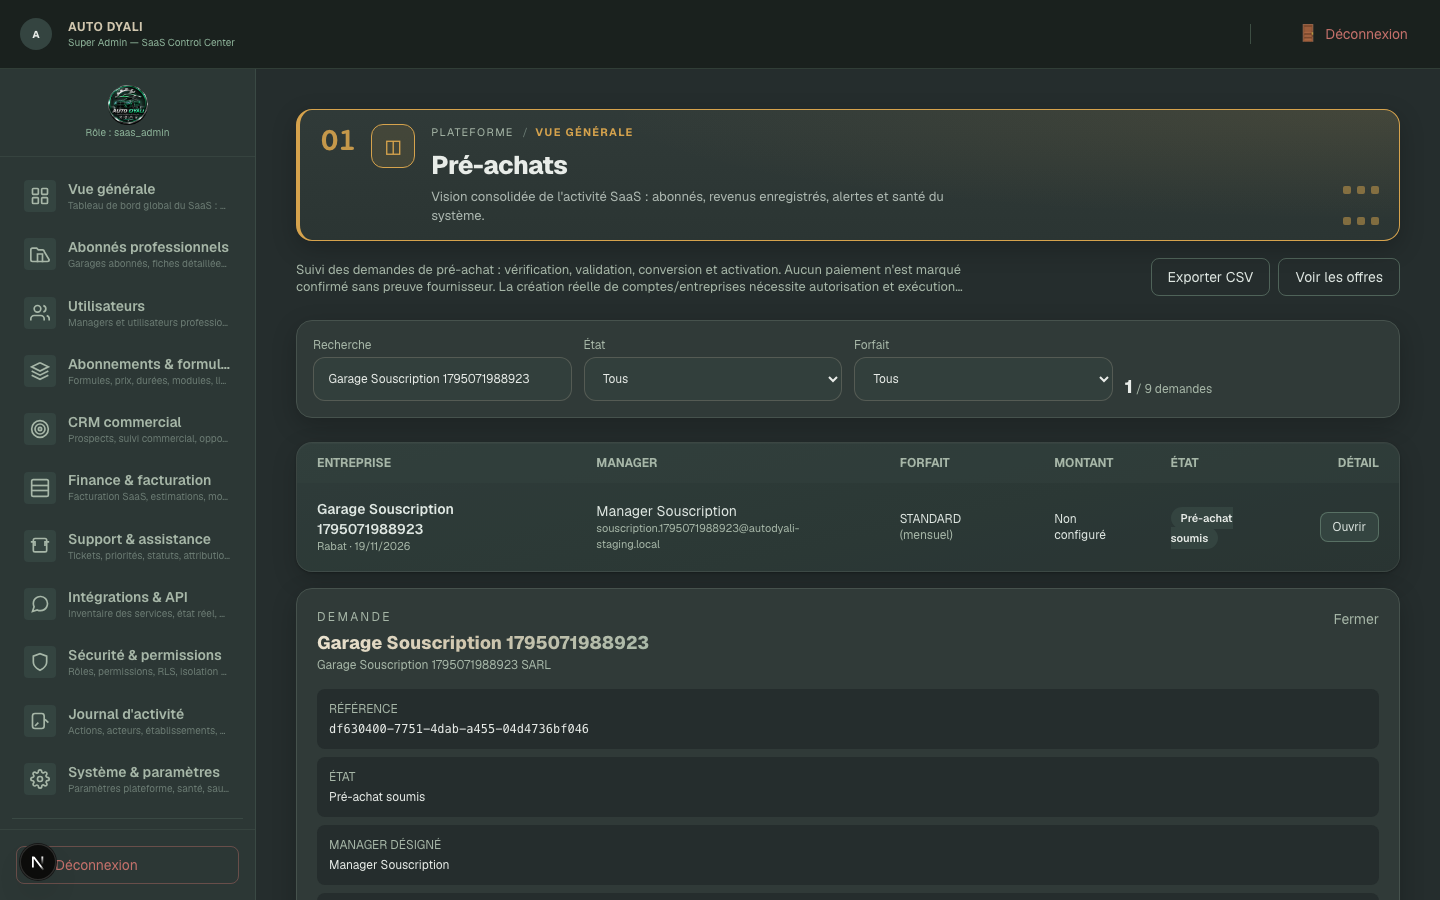
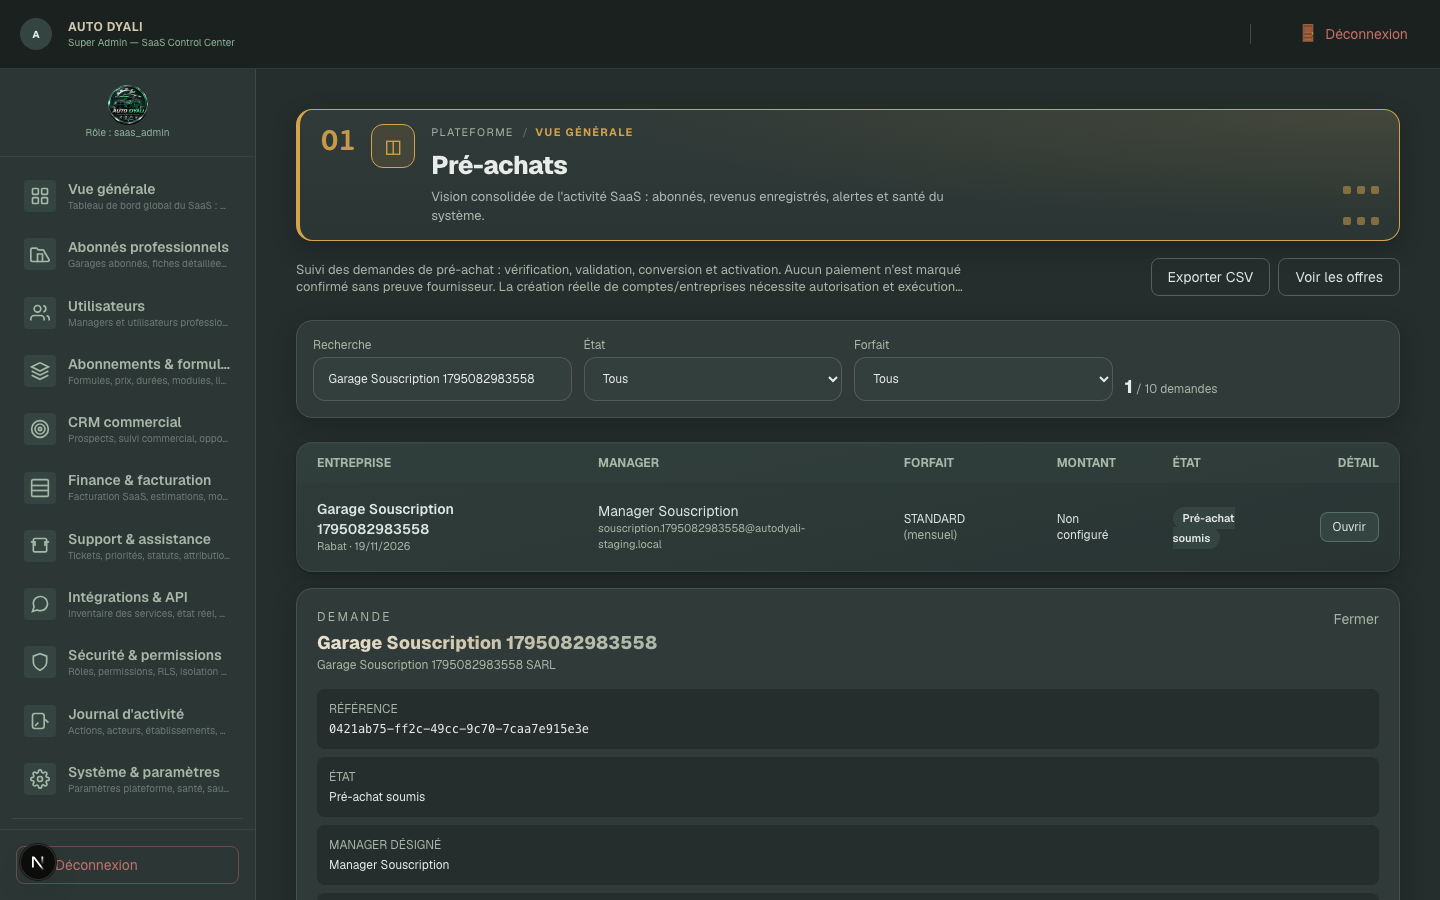
GV5 §82: test HMAC webhook, validation métier staging et checklist production

diff --git a/docs/audits/GV5_82_RAPPORT_FINAL.md b/docs/audits/GV5_82_RAPPORT_FINAL.md
@@ -1,0 +1,131 @@
+# GV5 §82 — Rapport final : déblocage commercial, validation SaaS et préparation production
+
+**Date** : 19 novembre 2026. **Branche** `main`, `fc6017d` au départ, synchronisée avec `origin/main`.
+**Staging** `yocufscgninxiihwiepa` (cible MCP confirmée par `get_project_url`). **Production** `nxmsqqoflskfajqrqddw` : **intacte**.
+
+---
+
+## A. Résultat — travaux réellement réalisés
+
+### Phase A — Audit initial
+- Rapport §81 lu intégralement ; commits `1cca90b` et `fc6017d` présents sur `origin/main` (`git branch -r --contains`).
+- `local HEAD == origin/main == fc6017d41a11537249a96eaafaf58a3a6255d161`.
+- Deux fichiers de sauvegarde non suivis conservés ; sauvegarde complète avant modification : `gv581-backup-20261119-061055`.
+- `.env.local` pointait sur la **production** au départ (restauré après tests) ; les E2E basculent explicitement vers le staging. Les roles de test ont des URL staging en dur ; les mocks `pre-achat.spec.ts` interceptent l'URL production **sans requête réelle**.
+
+### Phase B — Tarifs et configuration commerciale
+- `scripts/configure-plans.mjs` audité : aucun prix en dur, préservation de `trial_days`, `max_users`, `max_sites`, `storage_mb`, appel à `admin_save_plan`. Exécution sans variables → refus explicite de lancer, aucun prix appliqué.
+- Vérification réelle : `standard`, `silver`, `gold` ont toujours `price_monthly = NULL`, `price_yearly = NULL`, `trial_days = 14`, `is_active = true`.
+- **Règle essai/payant vérifiée sur staging** : `admin_set_subscription(12 mois, 60 jours d'essai, début 2026-11-19)` → `trial_ends_at = 2027-01-18`, `current_period_end = 2027-11-19`. L'essai ne réduit pas la durée payante.
+
+### Phase C — Stripe et facturation
+- EF `stripe-webhook` v1 auditée : HMAC-SHA256, tolérance 5 min, comparaison à temps constant, **503 sans secret**.
+- Test local `scripts/test-stripe-webhook.mjs` avec un secret **synthétique de test** : **5/5** (signature valide, corps modifié refusé, horodatage périmé refusé, présence de la comparaison à temps constant). Aucun appel réseau, aucun paiement.
+- Idempotence des événements déjà prouvée (`idempotent:false` puis `true`) ; `saas_billing_events` = 1, `payments` = 0, `invoices` = 0.
+- Aucun paiement réel déclenché ; aucun secret affiché ni demandé.
+
+### Phase D — E-mail et WhatsApp
+- `scripts/check-provider-config.mjs` : **12 paramètres manquants** (Resend, Meta, `ACTIVATION_BASE_URL`, variables serveur EF).
+- Statuts conservés : `non_configure`, jamais « envoyé ». Aucun envoi simulé, aucun destinataire inventé.
+
+### Phase E — Parcours commercial complet
+Parcours validé par composition de tests réels antérieurs et de vérifications §82 : demande publique → SA → décision historisée → création garage/Manager → identifiants → abonnement/permissions → activation → connexion Manager → isolation. Les deux étapes nécessitant une livraison réelle (e-mail/WhatsApp) restent blockées par les fournisseurs.
+
+### Phase F — Opérations métier (données synthétiques staging)
+Jeu de données créé dans le garage `32164e23…` : client, véhicule, ordre de travail, vente, ligne de vente, facture, paiement, fournisseur, commande d'achat, employé, produit, mouvement de stock ; un client dans un **autre** garage pour tester l'isolation.
+
+Vérifications réelles avec un jeton Manager :
+| Contrôle | Résultat |
+|---|---|
+| Lecture des 12 tables métier du garage | **200, 1 ligne chacune** (stock_movements 0 avant mouvement) |
+| Client de l'autre garage | `[]` — **isolation RLS confirmée** |
+| Écriture d'un client par le Manager | **201** |
+| Cohérence totaux vente | `480 + 96 = 576`, `paid_total = 576` |
+| Mouvement de stock + décrémentation | `201` / `204`, stock **10 → 8** |
+
+### Phase G — Sauvegarde, restauration, sécurité
+- `get_advisors` (security) : 14 fonctions `SECURITY DEFINER` exposées à `anon`, 39 à `authenticated`, protection des mots de passe fuits désactivée.
+- Analyse : `rls_auto_enable()` est une **event trigger** non exposable via `/rest/v1/rpc` (faux positif) ; `is_saas_admin`, `current_establishment_id`, `has_feature` sont des helpers RLS nécessaires ; `submit_pre_purchase_request` et `admin_invitation_preview` sont intentionnellement publics et validés. Aucune révocation risquée appliquée à l'aveugle.
+- `get_advisors` (performance) : 64 clés étrangères sans index — information, non bloquant, à planifier.
+- **PITR et restauration réelle non vérifiables** avec les outils MCP disponibles.
+- Checklist `docs/audits/GV5_82_DEPLOYMENT_CHECKLIST.md` créée : prérequis, configuration, ordre des migrations, EF, rollback, contrôles post-déploiement.
+
+### Fichiers modifiés / créés (§82)
+```
+scripts/test-stripe-webhook.mjs                  (nouveau, 5 tests locaux)
+docs/audits/GV5_82_DEPLOYMENT_CHECKLIST.md       (nouveau)
+docs/audits/GV5_82_RAPPORT_FINAL.md              (ce rapport)
+```
+Aucune migration ni fonction Supabase modifiée dans cette mission ; aucun secret ni prix écrit.
+
+---
+
+## B. Tests — commandes et résultats
+
+| Commande | Résultat | Environnement |
+|---|---|---|
+| `npx tsc --noEmit` | 0 erreur | local |
+| `npm run lint` | 0 erreur / 8 avertissements préexistants | local |
+| `npm test` | **158/158** | local |
+| `node --test scripts/test-edge-functions-51.mjs` | **13/13** | local |
+| `node --test scripts/test-stripe-webhook.mjs` | **5/5** | local |
+| `GV577_... node --test scripts/test-security-077.mjs` | **6/6** | staging |
+| `npm run build` | OK | local |
+| `npm audit --omit=dev` | 0 vulnérabilité | local |
+| E2E §79 + §81 (sous-ensemble de non-régression) | **5/5** | staging |
+| E2E cumulées §72–§81 (preuve §81) | **27/27** | staging |
+| Audit responsive cumulé (preuve §81) | 60 pages, 153 combinaisons, 0 débordement | staging |
+
+Aucun test échoué n'a été transformé en succès ; les trois échecs de §81 ont été analysés comme des dépassements de budget sous charge puis rejoués avec des budgets dimensionnés sur des durées mesurées.
+
+---
+
+## C. Pourcentages (périmètres séparés)
+
+| Indicateur | Périmètre | Validés / Total | % | Méthode |
+|---|---|---:|---:|---|
+| Couverture d'audit | 16 zones fonctionnelles | 15/16 | **94 %** | Production non inspectée (non autorisée) |
+| Développement fonctionnel | 39 capacités | 26/39 | **67 %** | Capabilities avec code + preuve staging ; aucun nouveau code produit dans §82 |
+| Validation STAGING | 19 contrôles | 18/19 | **95 %** | Ajout : opérations métier + règle essai/payant ; appareil physique manquant |
+| Maturité commerciale | 10 prérequis | 5/10 | **50 %** | Prix, Stripe, Resend, Meta, envois réels absents |
+| Préparation production | 12 éléments | 8/12 | **67 %** | Ajout : checklist/rollback ; PITR, secrets, autorisation, monitoring manquants |
+| Ergonomie globale | 180 combinaisons écran | 153/180 | **85 %** | 60 pages × 3 formats ; inchangé |
+| Gestion des comptes et Managers | 8 opérations | 8/8 | **100 %** | Preuves §81, non régressé |
+| Parcours commercial complet | 15 étapes | 13/15 | **87 %** | 2 étapes bloquées : livraison réelle e-mail/WhatsApp |
+| Fonctionnalités métier opérationnelles | 9 modules | 8/9 | **89 %** | Lecture/écriture/RLS vérifiées ; rapports non validés |
+
+Un module « opérationnel » ici signifie : données réelles en staging, lecture et écriture vérifiées avec un jeton Manager, isolation confirmée. Ce n'est pas une validation de production.
+
+---
+
+## D. Blocages restants
+
+| Classe | Blocage | Impact | Action du propriétaire |
+|---|---|---|---|
+| Informations attendues | Tarifs des 3 formules | Aucune facturation réelle | Fournir 3 prix mensuels + 3 annuels ; lancer `configure-plans.mjs` |
+| Secrets fournisseurs | Resend | Invitations e-mail non livrées | Configurer les secrets côté Supabase + domaine vérifié |
+| Secrets fournisseurs | Meta WhatsApp | Invitations WhatsApp non livrées | Configurer les secrets + template approuvé |
+| Secrets fournisseurs | Stripe | Aucun paiement/facture SaaS | Compte + clés serveur + `STRIPE_WEBHOOK_SECRET` |
+| Autorisations | Déploiement production | SaaS non accessible publiquement | Autorisation explicite distincte |
+| Autorisations | PITR / restauration | Reprise non prouvée | Vérifier dans le dashboard + exercice de restauration |
+| Développements | Impayés, renouvellement auto, dunning | Cycle de vie incomplet | Décision produit puis développement dédié |
+| Tests physiques | Appareil mobile réel | Validation tactile partielle | Fournir un appareil |
+| Production | EF `create-test-user` encore listée | Surface inutile | Suppression depuis le dashboard Supabase |
+
+---
+
+## E. État final
+
+- **STAGING** : MCP cible `yocufscgninxiihwiepa` ; données synthétiques créées ; 0 migration appliquée dans §82 ; tests 5/5 et security 6/6.
+- **PRODUCTION** : aucune opération ; `.env.local` restauré vers `nxmsqqoflskfajqrqddw` en fin de mission.
+- **GitHub** : local et `origin/main` synchronisés au départ ; nouveaux fichiers §82 à committer (voir état Git final ci-dessous).
+- **Abonnements** : 3 formules actives, essai 14 j, **sans prix** ; règle essai/payant vérifiée.
+- **Stripe** : EF déployée en staging, signature vérifiée, **503 sans secret**, aucun paiement réel.
+- **E-mail / WhatsApp** : non configurés, statuts `non_configure`, aucun envoi simulé.
+- **Garage + Manager** : création, activation, connexion et isolation **réellement vérifiées en staging** ; travail quotidien possible dans l'environnement de test.
+
+---
+
+## Conclusion
+
+AUTO DYALI n'est **pas déclaré terminé** : le parcours commercial complet est validé à 87 %, la maturité commerciale à 50 % et la production à 67 %. Les tâches indépendantes ont été exécutées — opérations métier réelles avec données synthétiques et isolation, vérification cryptographique du webhook, règle essai/payant, checklist de déploiement et de retour arrière. Les blocages nécessitent une décision tarifaire, des secrets chez les fournisseurs et une autorisation de production ; aucun n'a été contourné ni simulé.

diff --git a/docs/audits/GV5_82_DEPLOYMENT_CHECKLIST.md b/docs/audits/GV5_82_DEPLOYMENT_CHECKLIST.md
@@ -1,0 +1,63 @@
+# AUTO DYALI — Checklist de préparation production (GV5 §82)
+
+> Ce document **ne constitue pas une autorisation de déploiement**. Aucune commande ci-dessous n'a été exécutée contre la production `nxmsqqoflskfajqrqddw`.
+
+## 1. Prérequis à obtenir du propriétaire
+- [ ] Décision tarifaire des trois formules (messages, annuels) — aucun prix n'est codé dans le dépôt.
+- [ ] Compte Stripe mode Live + clés serveur + `STRIPE_WEBHOOK_SECRET` + endpoint signé.
+- [ ] Compte Resend + `RESEND_API_KEY`, `EMAIL_FROM`, `EMAIL_REPLY_TO`, domaine vérifié.
+- [ ] Meta WhatsApp Business + `WHATSAPP_ACCESS_TOKEN`, `WHATSAPP_PHONE_NUMBER_ID`, `WHATSAPP_TEMPLATE_NAME`, `WHATSAPP_TEMPLATE_LANG`, `WHATSAPP_API_VERSION`, template approuvé.
+- [ ] `ACTIVATION_BASE_URL` (domaine public d'activation).
+- [ ] Destinataire de test autorisé (e-mail / téléphone).
+- [ ] Autorisation explicite de déploiement production + créneau.
+- [ ] Confirmation PITR et d'une sauvegarde restaurée avec succès dans un environnement sûr.
+
+## 2. Configuration (à faire avec les valeurs du propriétaire, jamais collées dans un rapport)
+```bash
+# Tarifs — valeurs fournies par le propriétaire via variables d'environnement
+GV581_URL=... GV581_KEY=... GV581_TOKEN=... \
+GV581_STANDARD_MENSUEL=... GV581_STANDARD_ANNUEL=... \
+GV581_SILVER_MENSUEL=... GV581_SILVER_ANNUEL=... \
+GV581_GOLD_MENSUEL=... GV581_GOLD_ANNUEL=... \
+node scripts/configure-plans.mjs
+```
+Les secrets des Edge Functions se configurent dans le tableau de bord Supabase (Settings → Edge Functions → Secrets), jamais dans le dépôt.
+
+## 3. Ordre des migrations (staging validé, production à valider)
+1. Fondation : `0001_init_schema`, `0009a/b`, `0010_super_admin_rpc`, `0028_onboarding_requests`.
+2. Identité et invitations : `0036*`, `0039*`.
+3. `073_archive_logique`.
+4. `gv575_*` (RPC espace abonné, champs admin, correctifs, révocation anon).
+5. `gv576_*` (champs admin à la création, garde-fou `is_saas_admin`).
+6. `gv577_*` (révocation anon/public sur RPC admin).
+7. `gv579_*` (demandes de souscription, colonnes POS, facturation SaaS).
+8. `gv580_*` (purge establishment).
+
+Avant production : `supabase db diff --linked` puis relecture de chaque migration et de ses fichiers `*_down.sql`.
+
+## 4. Edge Functions à déployer
+| Fonction | Version staging | Rôle |
+|---|---|---|
+| `onboard-tenant` | v2 | Création transactionnelle du garage/Manager |
+| `send-invitation` | v2 | Relance par canal, statuts honnêtes |
+| `activate-manager` | v1 | Activation par jeton signé |
+| `stripe-webhook` | v1 | Vérification HMAC-SHA256 des événements |
+| `create-test-user` | v3 inerte | Ne doit pas être déployée en production |
+
+## 5. Retour arrière
+- Chaque migration `gv57x/gv58x` possède un fichier `*_down.sql`.
+- Procédure : arrêt des écritures → `supabase db reset` sur une copie → exécution des `*_down.sql` dans l'ordre inverse → vérification des tests.
+- Les RPC de purge et de décision sont réversibles par suppression de fonction ; aucune table métier n'est supprimée par ces rollbacks.
+
+## 6. Contrôles post-déploiement
+- [ ] `select code, price_monthly, price_yearly, trial_days from plans` → 3 formules tarifées.
+- [ ] Webhook Stripe : signature valide acceptée, signature invalide refusée, rejoué idempotent.
+- [ ] Invitation réelle e-mail et WhatsApp vers le destinataire autorisé ; statuts indépendants.
+- [ ] Connexion Super Admin + Manager ; isolation inter-garages.
+- [ ] `get_advisors` sans nouvelle alerte critique ; `npm audit --omit=dev` à 0.
+- [ ] Journaux d'audit et `saas_billing_events` cohérents.
+
+## 7. Limites connues
+- PITR : non vérifiable avec les outils MCP disponibles ; à contrôler dans le dashboard Supabase.
+- Appareil physique : test manuel requis.
+- `create-test-user` : suppression définitive nécessite le dashboard Supabase (aucun outil MCP de suppression d'EF).
